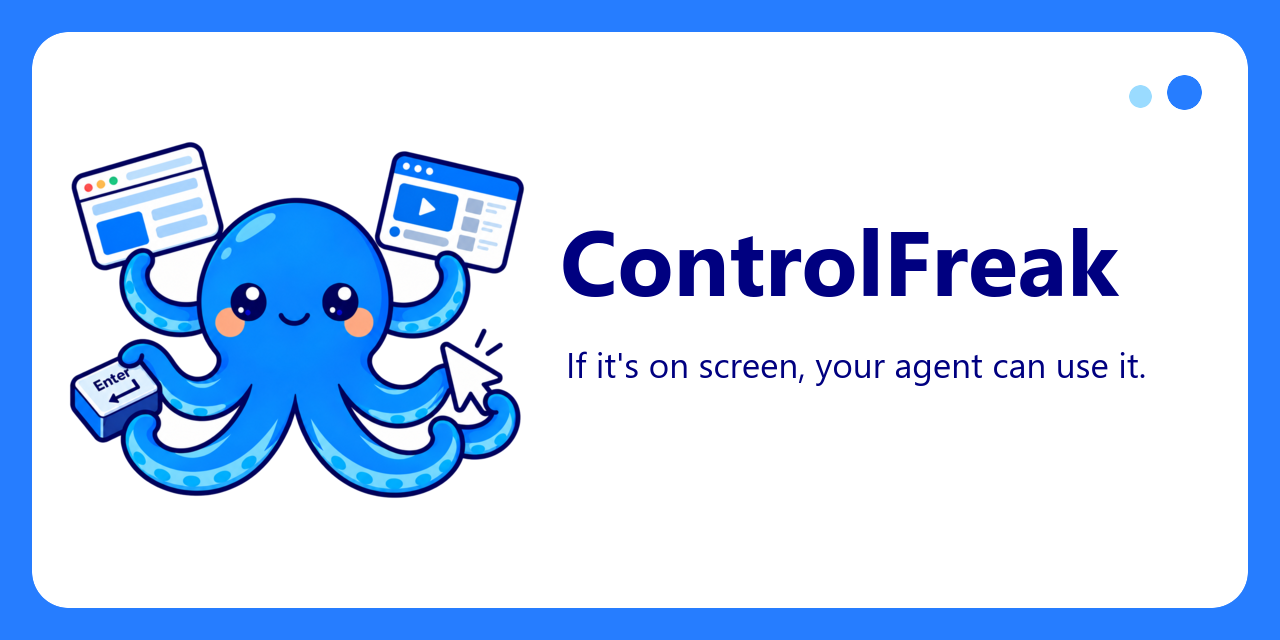
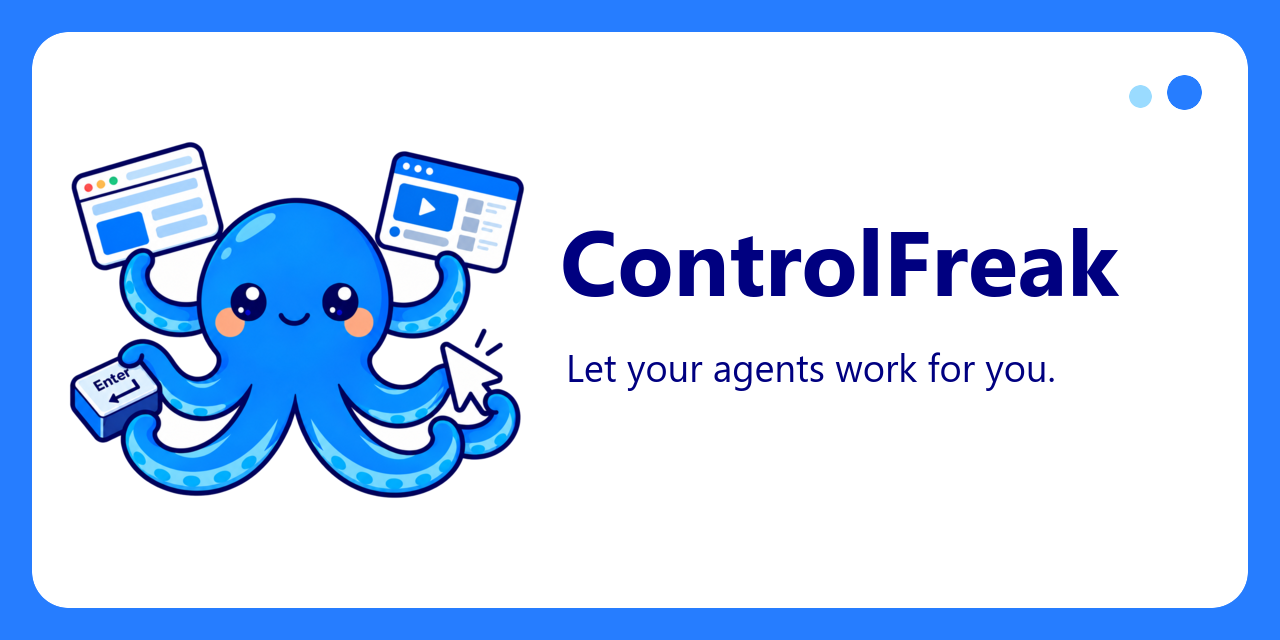
Use the tagline 'Let your agents work for you.'

Changed region(s): [[0.4375, 0.5625, 0.9062, 0.625]]

diff --git a/README.md b/README.md
@@ -4,7 +4,7 @@
   <img src="assets/logo.png" width="240" alt="ControlFreak mascot: a blue octopus holding two app windows, pressing a key and clicking a mouse cursor">
 </p>
 
-<p align="center"><strong>If it's on screen, your agent can use it.</strong></p>
+<p align="center"><strong>Let your agents work for you.</strong></p>
 
 [![CI](https://github.com/Subhransu-De/ControlFreak/actions/workflows/ci.yml/badge.svg)](https://github.com/Subhransu-De/ControlFreak/actions/workflows/ci.yml)
 [![Release](https://img.shields.io/github/v/release/Subhransu-De/ControlFreak?include_prereleases)](https://github.com/Subhransu-De/ControlFreak/releases)
